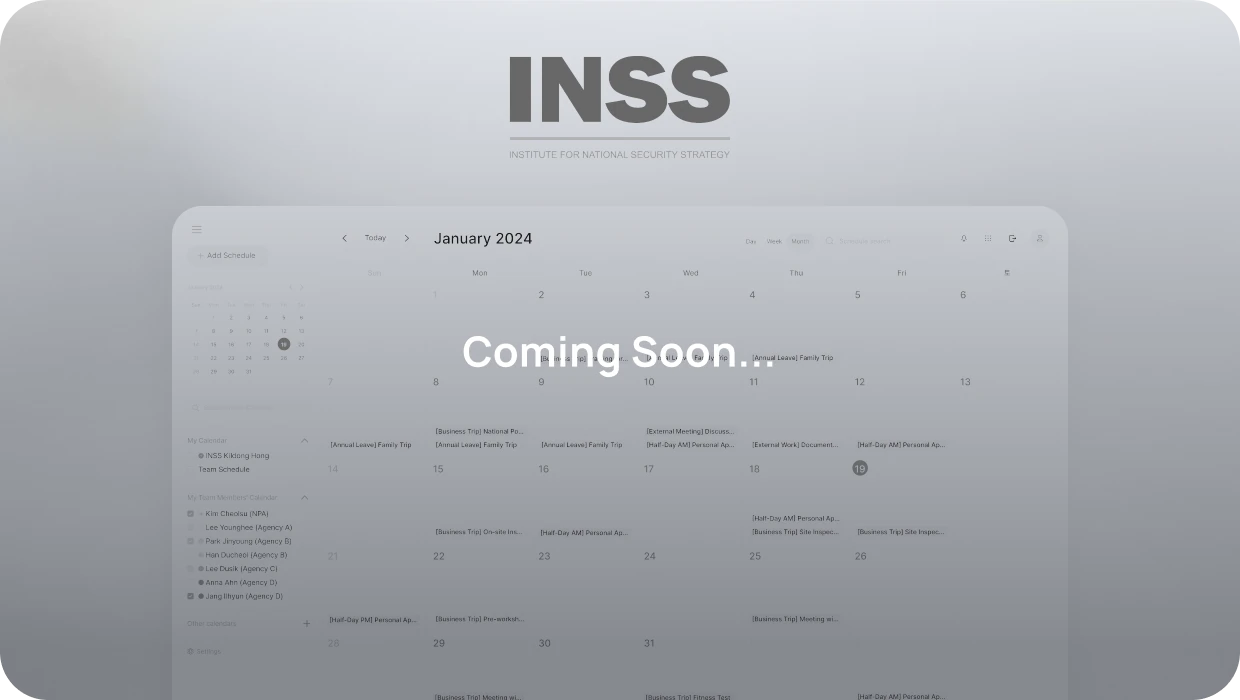
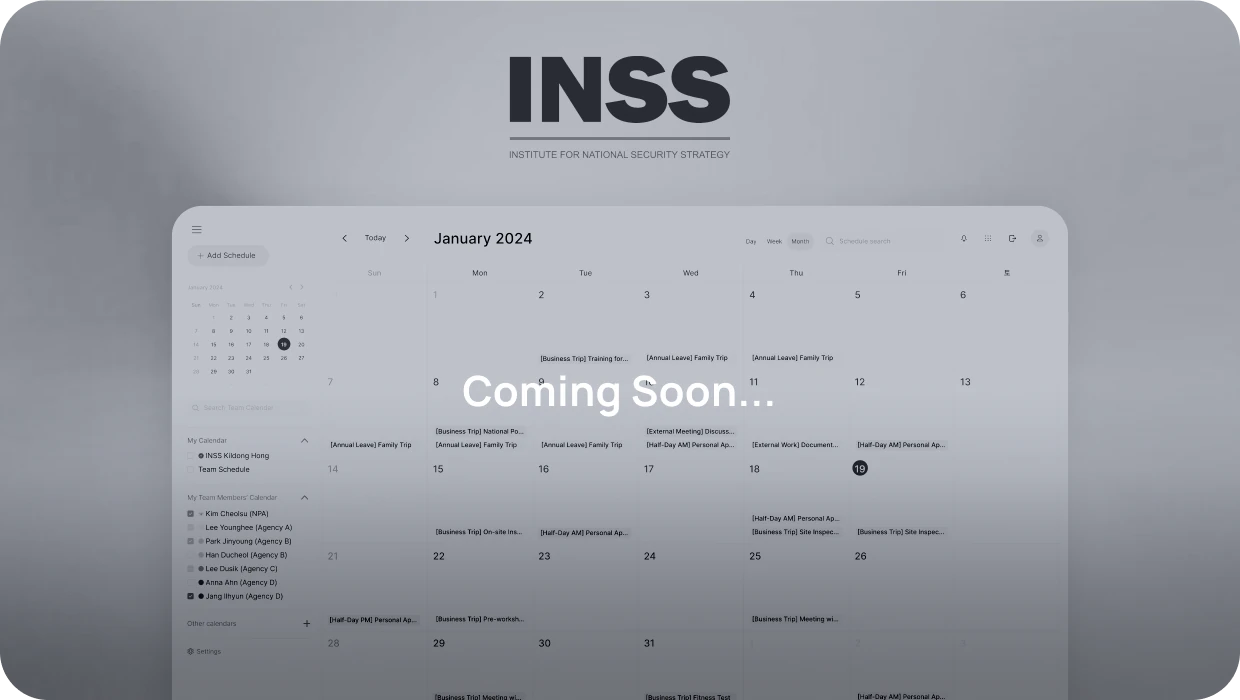
Restore overview dividers on Mel, SK, MemeCore; new INSS thumbnail

diff --git a/work/memecore/index.html b/work/memecore/index.html
@@ -80,18 +80,21 @@
             <p class="mc-overview__value mc-overview__value--tight">Product Management<br>End-to-end Product Design<br>Front-end Implementation (AI-assisted)<br>Interaction Design</p>
           </div>
         </div>
+        <span class="mc-overview__divider" aria-hidden="true"></span>
         <div class="mc-overview__col">
           <div class="mc-overview__item">
             <p class="mc-overview__label">TIMELINE</p>
             <p class="mc-overview__value">Nov 2025 - Jun 2026</p>
           </div>
         </div>
+        <span class="mc-overview__divider" aria-hidden="true"></span>
         <div class="mc-overview__col">
           <div class="mc-overview__item">
             <p class="mc-overview__label">TEAM</p>
             <p class="mc-overview__value">1 Frontend Engineer<br>1 Backend Engineer<br>3 Illustrators<br>1 Growth Lead<br>2 Marketers</p>
           </div>
         </div>
+        <span class="mc-overview__divider" aria-hidden="true"></span>
         <div class="mc-overview__col">
           <div class="mc-overview__item">
             <p class="mc-overview__label">TOOLS</p>

diff --git a/work/mel-ai/index.html b/work/mel-ai/index.html
@@ -82,18 +82,21 @@
             <p class="mg-overview__value">Product Design<br>Interaction Design<br>Design System<br>UX Research<br>Prototyping</p>
           </div>
         </div>
+        <span class="mg-overview__divider" aria-hidden="true"></span>
         <div class="mg-overview__col">
           <div class="mg-overview__item">
             <p class="mg-overview__label">TIMELINE</p>
             <p class="mg-overview__value">Apr 2024 - Jul 2024</p>
           </div>
         </div>
+        <span class="mg-overview__divider" aria-hidden="true"></span>
         <div class="mg-overview__col">
           <div class="mg-overview__item">
             <p class="mg-overview__label">TEAM</p>
             <p class="mg-overview__value">2 Product Designers (Me)<br>1 Product Owner<br>2 Product Managers<br>6 ML Engineers<br>8 iOS/Android/Web Engineers</p>
           </div>
         </div>
+        <span class="mg-overview__divider" aria-hidden="true"></span>
         <div class="mg-overview__col">
           <div class="mg-overview__item">
             <p class="mg-overview__label">TOOLS</p>

diff --git a/work/sk-hmi/index.html b/work/sk-hmi/index.html
@@ -68,18 +68,21 @@
             <p class="sk-overview__value">Product Design<br>Design System<br>Prototyping</p>
           </div>
         </div>
+        <span class="sk-overview__divider" aria-hidden="true"></span>
         <div class="sk-overview__col">
           <div class="sk-overview__item">
             <p class="sk-overview__label">TIMELINE</p>
             <p class="sk-overview__value">May 2023 - Nov 2023</p>
           </div>
         </div>
+        <span class="sk-overview__divider" aria-hidden="true"></span>
         <div class="sk-overview__col">
           <div class="sk-overview__item">
             <p class="sk-overview__label">TEAM</p>
             <p class="sk-overview__value">3 UI/UX Designers (Me)<br>1 Project Leader<br>4 Planners<br>3 Unity Engineers<br>3 3D Designers</p>
           </div>
         </div>
+        <span class="sk-overview__divider" aria-hidden="true"></span>
         <div class="sk-overview__col">
           <div class="sk-overview__item">
             <p class="sk-overview__label">TOOLS</p>

diff --git a/work/sk-hmi/sk-hmi.css b/work/sk-hmi/sk-hmi.css
@@ -6,6 +6,7 @@
   --sk-text:          #121213;
   --sk-white:         #ffffff;
   --sk-label:         #56575f;
+  --sk-divider:       #d3d7db;
   --sk-value:         #76777d;
   --sk-box-bg:        #f9fafb;
   --sk-body:          #424751;
@@ -270,7 +271,22 @@
 .sk-overview__box {
   display: flex;
   justify-content: space-between;
-  gap: 60px;
+}
+
+/* 1px divider centered in each gap (gap is at least 60px, as before) */
+.sk-overview__divider {
+  flex: 1 1 60px;
+  position: relative;
+}
+
+.sk-overview__divider::after {
+  content: "";
+  position: absolute;
+  top: 0;
+  bottom: 0;
+  left: 50%;
+  width: 1px;
+  background: var(--sk-divider);
 }
 
 /* Figma: four 230px frames; the first is left-aligned, the other three center their text */
@@ -958,7 +974,9 @@
   .sk-overview__box {
     display: grid;
     grid-template-columns: repeat(2, 1fr);
+    gap: 60px;
   }
+  .sk-overview__divider { display: none; }
   .sk-overview__col { width: auto; align-items: flex-start; }
 
   .sk-split {

diff --git a/work/memecore/memecore.css b/work/memecore/memecore.css
@@ -6,6 +6,7 @@
   --mc-text:        #121213;
   --mc-summary:     #2f323a;
   --mc-label:       #565860;
+  --mc-divider:     #d3d7db;
   --mc-value:       #76777d;
   --mc-box-bg:      #f9fafb;
   --mc-white:       #ffffff;
@@ -221,7 +222,22 @@
 .mc-overview__box {
   display: flex;
   justify-content: space-between;
-  gap: 60px;
+}
+
+/* 1px divider centered in each gap (gap is at least 60px, as before) */
+.mc-overview__divider {
+  flex: 1 1 60px;
+  position: relative;
+}
+
+.mc-overview__divider::after {
+  content: "";
+  position: absolute;
+  top: 0;
+  bottom: 0;
+  left: 50%;
+  width: 1px;
+  background: var(--mc-divider);
 }
 
 /* Figma: first column hugs its text at the left; the other three sit centered in 206px frames */
@@ -1330,7 +1346,9 @@
   .mc-overview__box {
     display: grid;
     grid-template-columns: repeat(2, 1fr);
+    gap: 60px;
   }
+  .mc-overview__divider { display: none; }
   .mc-overview__col { width: auto; align-items: flex-start; }
 
   .mc-split__row,

diff --git a/work/mel-ai/mel-ai.css b/work/mel-ai/mel-ai.css
@@ -6,6 +6,7 @@
   --mg-text:        #121213;
   --mg-body:        #424751;
   --mg-label:       #565860;
+  --mg-divider:     #d3d7db;
   --mg-value:       #76777d;
   --mg-box-bg:      #f9fafb;
   --mg-white:       #ffffff;
@@ -256,7 +257,22 @@
 .mg-overview__box {
   display: flex;
   justify-content: space-between;
-  gap: 60px;
+}
+
+/* 1px divider centered in each gap (gap is at least 60px, as before) */
+.mg-overview__divider {
+  flex: 1 1 60px;
+  position: relative;
+}
+
+.mg-overview__divider::after {
+  content: "";
+  position: absolute;
+  top: 0;
+  bottom: 0;
+  left: 50%;
+  width: 1px;
+  background: var(--mg-divider);
 }
 
 /* Figma: first column hugs its text at the left; the other three sit centered in 259px frames */
@@ -600,7 +616,9 @@
   .mg-overview__box {
     display: grid;
     grid-template-columns: repeat(2, 1fr);
+    gap: 60px;
   }
+  .mg-overview__divider { display: none; }
   .mg-overview__col { width: auto; align-items: flex-start; }
 
   .mg-split,
